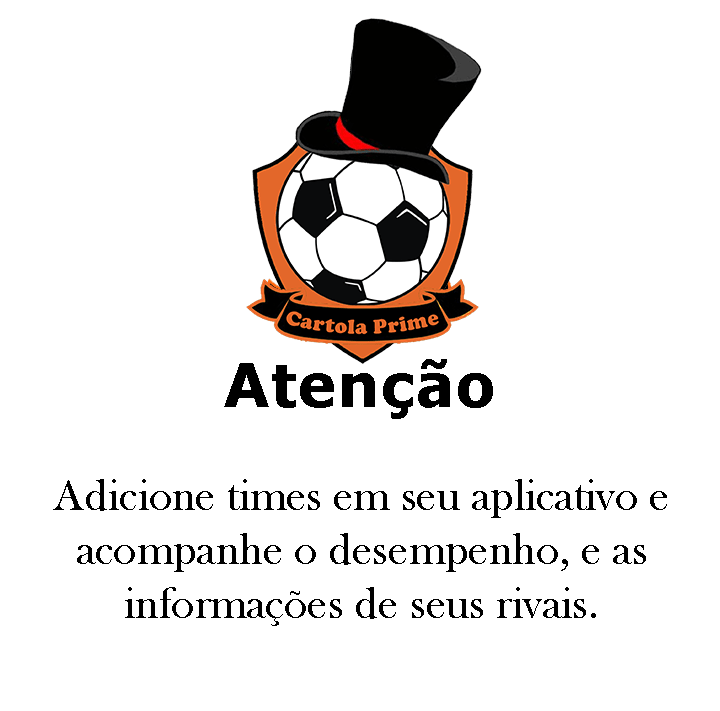
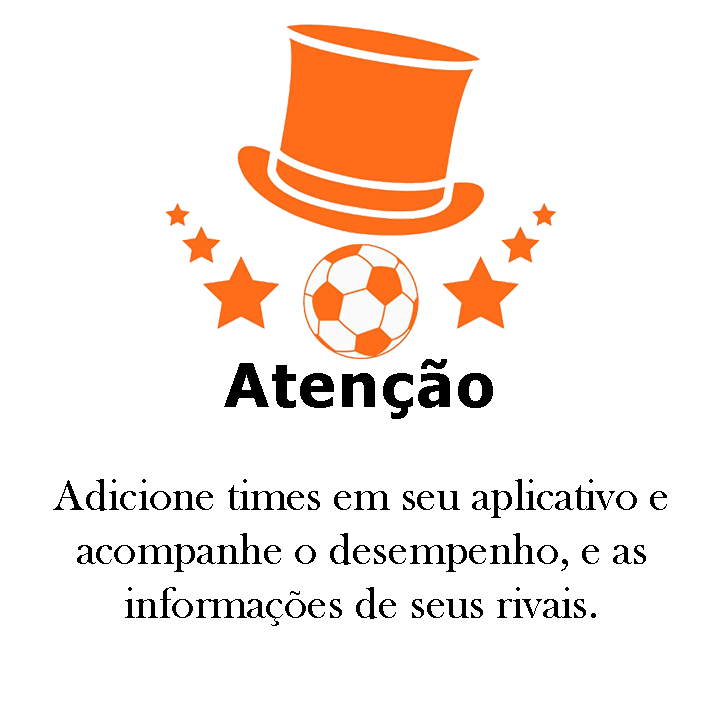
Adicionando novo icone

Changed region(s): [[0.2139, 0.0, 0.7333, 0.526], [0.7028, 0.2785, 0.7639, 0.3713]]

diff --git a/src/cartola_prime/lib/models/time_cartola_model.dart b/src/cartola_prime/lib/models/time_cartola_model.dart
@@ -9,7 +9,7 @@ import 'enums/esquema_time_enum.dart';
 class TimeCartolaModel {
   int? index;
   int? temporadaInicial;
-  String nomeCartola = "Cartola Prime";
+  String nomeCartola = "CartoPrime FC";
   String? globoId;
   String? nome;
   String urlEscudoPng = '';
@@ -33,7 +33,7 @@ class TimeCartolaModel {
 
   TimeCartolaModel(
       {this.temporadaInicial,
-      this.nomeCartola = "Cartola Prime",
+      this.nomeCartola = "CartoPrime FC",
       this.globoId,
       this.nome,
       this.urlEscudoPng = '',
@@ -140,7 +140,7 @@ class TimeCartolaModel {
 
   TimeCartolaModel.fromTimeDTO(TimeDto time) {
     temporadaInicial = time.temporadaInicial;
-    nomeCartola = time.nomeCartola ?? "Cartola Prime";
+    nomeCartola = time.nomeCartola ?? "CartoPrime FC";
     globoId = time.globoId;
     nome = time.nome;
     urlEscudoPng = time.urlEscudoPng ?? '';
@@ -155,7 +155,7 @@ class TimeCartolaModel {
     atletas = time.atletas;
     reservas = time.reservas;
     temporadaInicial = time.time!.temporadaInicial;
-    nomeCartola = time.time!.nomeCartola ?? "Cartola Prime";
+    nomeCartola = time.time!.nomeCartola ?? "CartoPrime FC";
     globoId = time.time!.globoId;
     nome = time.time!.nome;
     urlEscudoPng = time.time!.urlEscudoPng ?? '';

diff --git a/src/cartola_prime/lib/app_widget.dart b/src/cartola_prime/lib/app_widget.dart
@@ -27,7 +27,7 @@ class AppWidget extends StatelessWidget {
       ],
       child: MaterialApp(
         debugShowCheckedModeBanner: false,
-        title: 'Cartola Prime',
+        title: 'CartoPrime FC',
         //home: const MenuDashboardPage(),
         theme: ThemeData(
             useMaterial3: true,
@@ -38,7 +38,7 @@ class AppWidget extends StatelessWidget {
         initialRoute: '/',
         routes: {
           '/': (context) => const SplashPage(),
-          '/home': (context) => const HomePage(title: 'Cartola Prime'),
+          '/home': (context) => const HomePage(title: 'CartoPrime FC'),
           '/login': (context) => const AuthPage(),
           '/classificacao': (context) => const ClassificacaoPage(),
           '/rodada': (context) => const RodadaPage(),

diff --git a/src/cartola_prime/lib/models/time_logado_model.dart b/src/cartola_prime/lib/models/time_logado_model.dart
@@ -56,7 +56,7 @@ class TimeLogadoModel {
 
   TimeLogadoModel.fromDTO(TimeLogadoDto timeLogado) {
     temporadaInicial = timeLogado.time!.temporadaInicial ?? 2023;
-    nomeCartola = timeLogado.time!.nomeCartola ?? "Cartola Prime";
+    nomeCartola = timeLogado.time!.nomeCartola ?? "CartoPrime FC";
     globoId = timeLogado.time!.globoId;
     nome = timeLogado.time!.nome;
     urlEscudoPng = timeLogado.time!.urlEscudoPng ?? '';
@@ -69,7 +69,7 @@ class TimeLogadoModel {
 
   TimeLogadoModel.fromTimeDTO(TimeDto time) {
     temporadaInicial = time.temporadaInicial;
-    nomeCartola = time.nomeCartola ?? "Cartola Prime";
+    nomeCartola = time.nomeCartola ?? "CartoPrime FC";
     globoId = time.globoId;
     nome = time.nome;
     urlEscudoPng = time.urlEscudoPng ?? '';

diff --git a/src/cartola_prime/lib/shared/utils/ad_helper.dart b/src/cartola_prime/lib/shared/utils/ad_helper.dart
@@ -11,15 +11,15 @@ class AdHelper {
     }
   }
 
-  // static String get bannerAdUnitId {
-  //   if (Platform.isAndroid) {
-  //     return 'ca-app-pub-2375658831220075~2899038961';
-  //   } else if (Platform.isIOS) {
-  //     return 'ca-app-pub-2375658831220075~2899038961';
-  //   } else {
-  //     throw UnsupportedError('Unsupported platform');
-  //   }
-  // }
+  static String get bannerAdUnitIdTest {
+    if (Platform.isAndroid) {
+      return 'ca-app-pub-2375658831220075~2899038961';
+    } else if (Platform.isIOS) {
+      return 'ca-app-pub-2375658831220075~2899038961';
+    } else {
+      throw UnsupportedError('Unsupported platform');
+    }
+  }
 
   static String get interstitialAdUnitId {
     if (Platform.isAndroid) {
